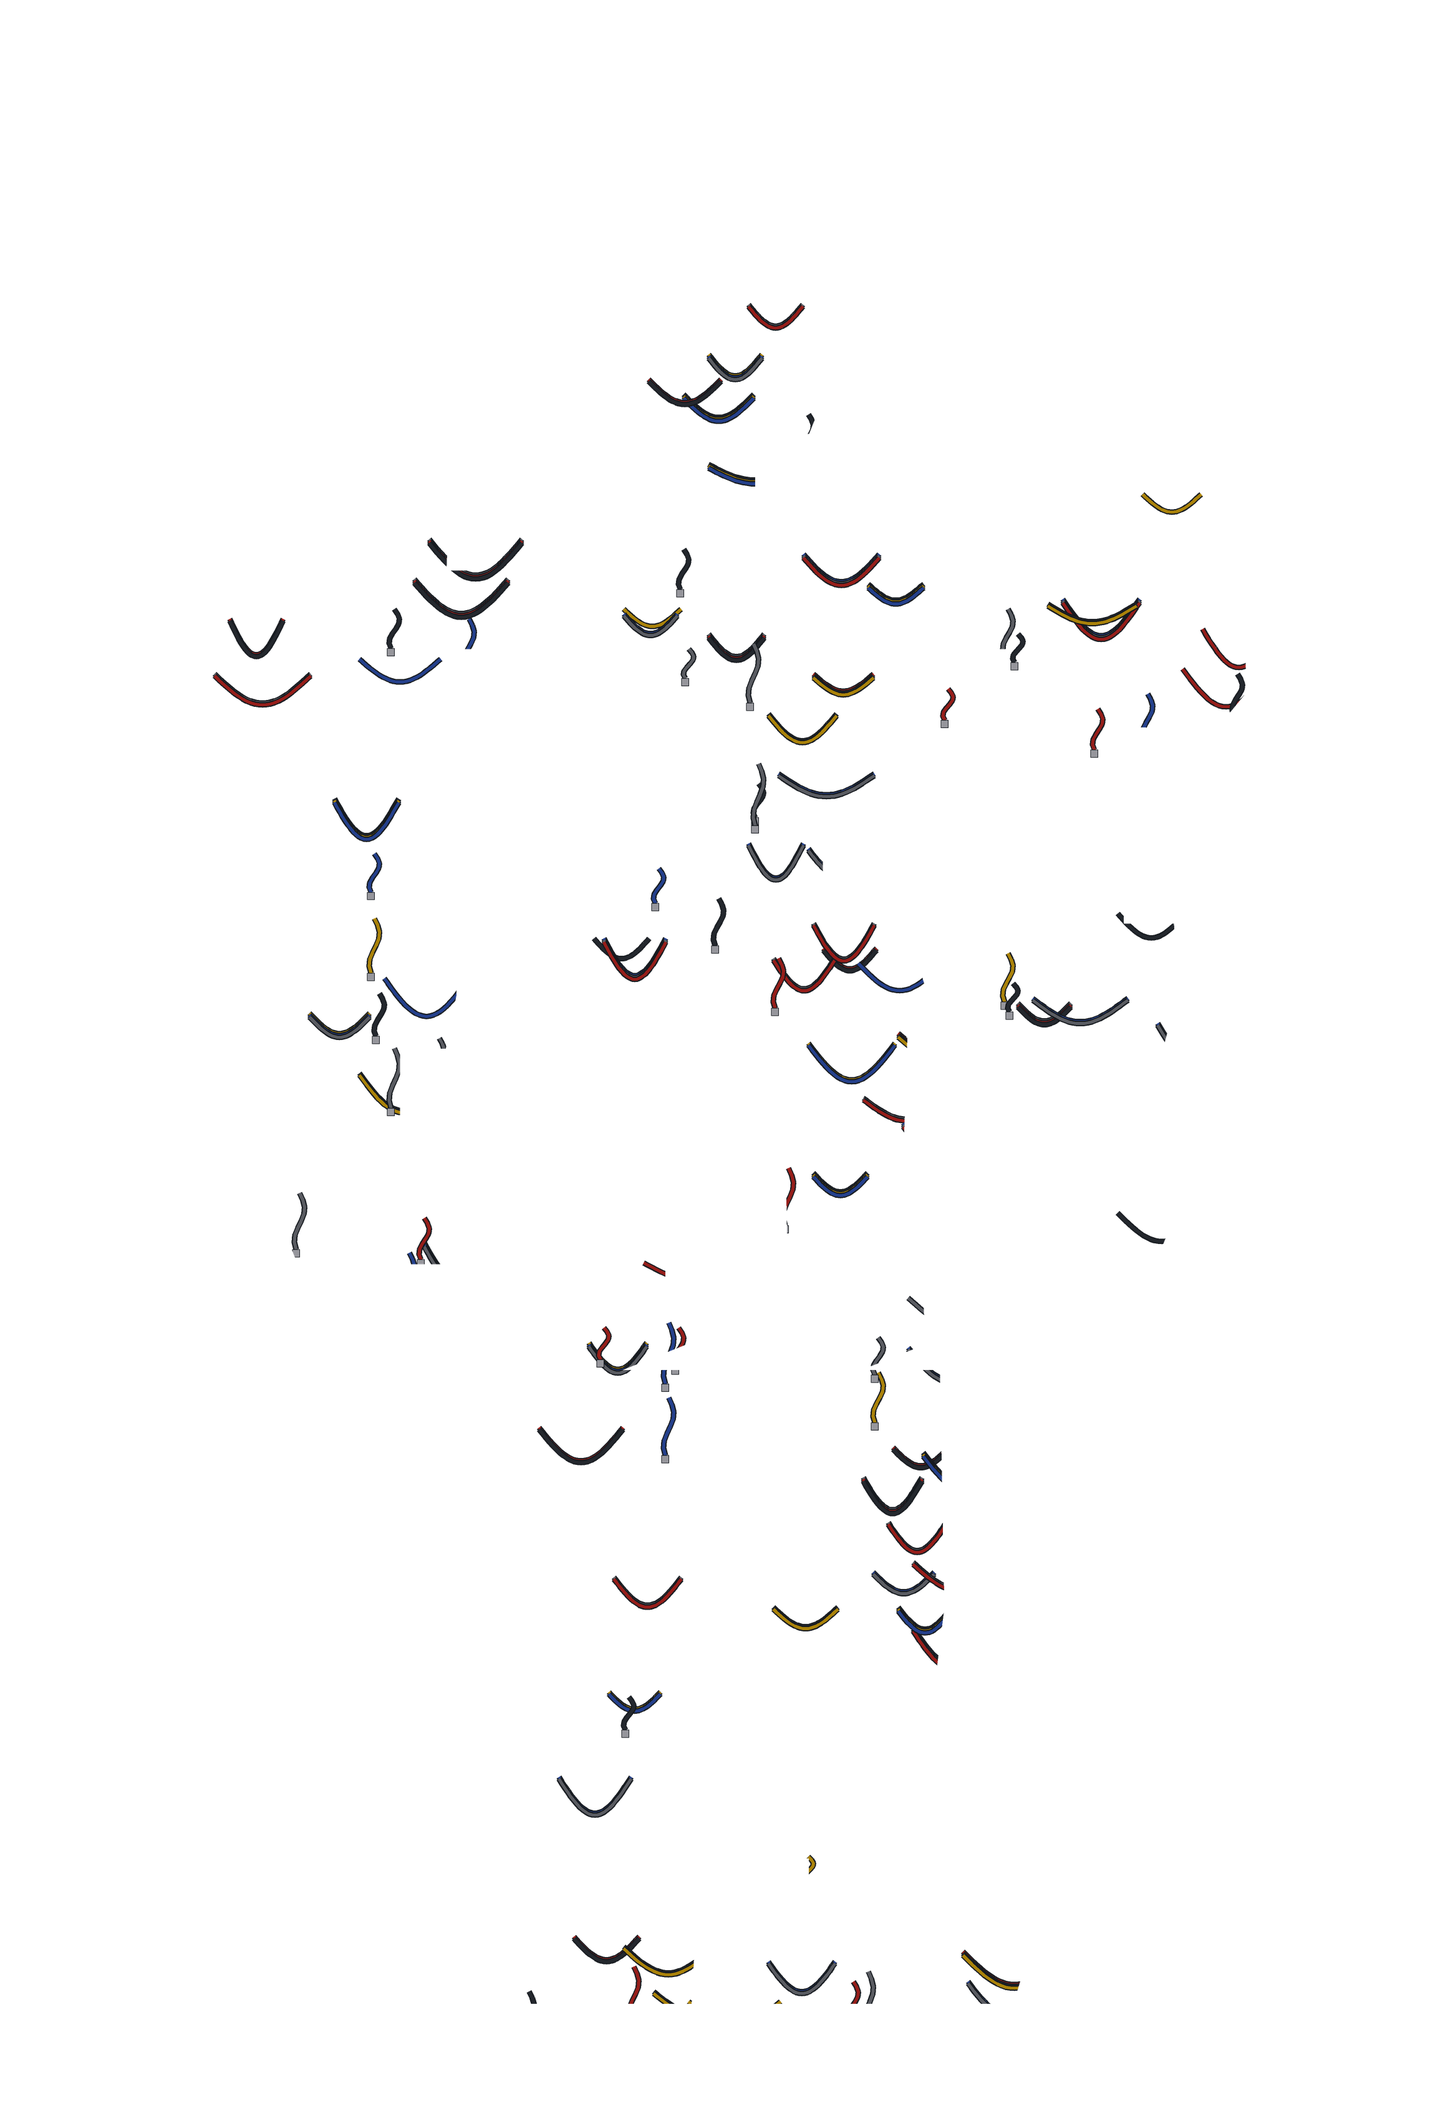
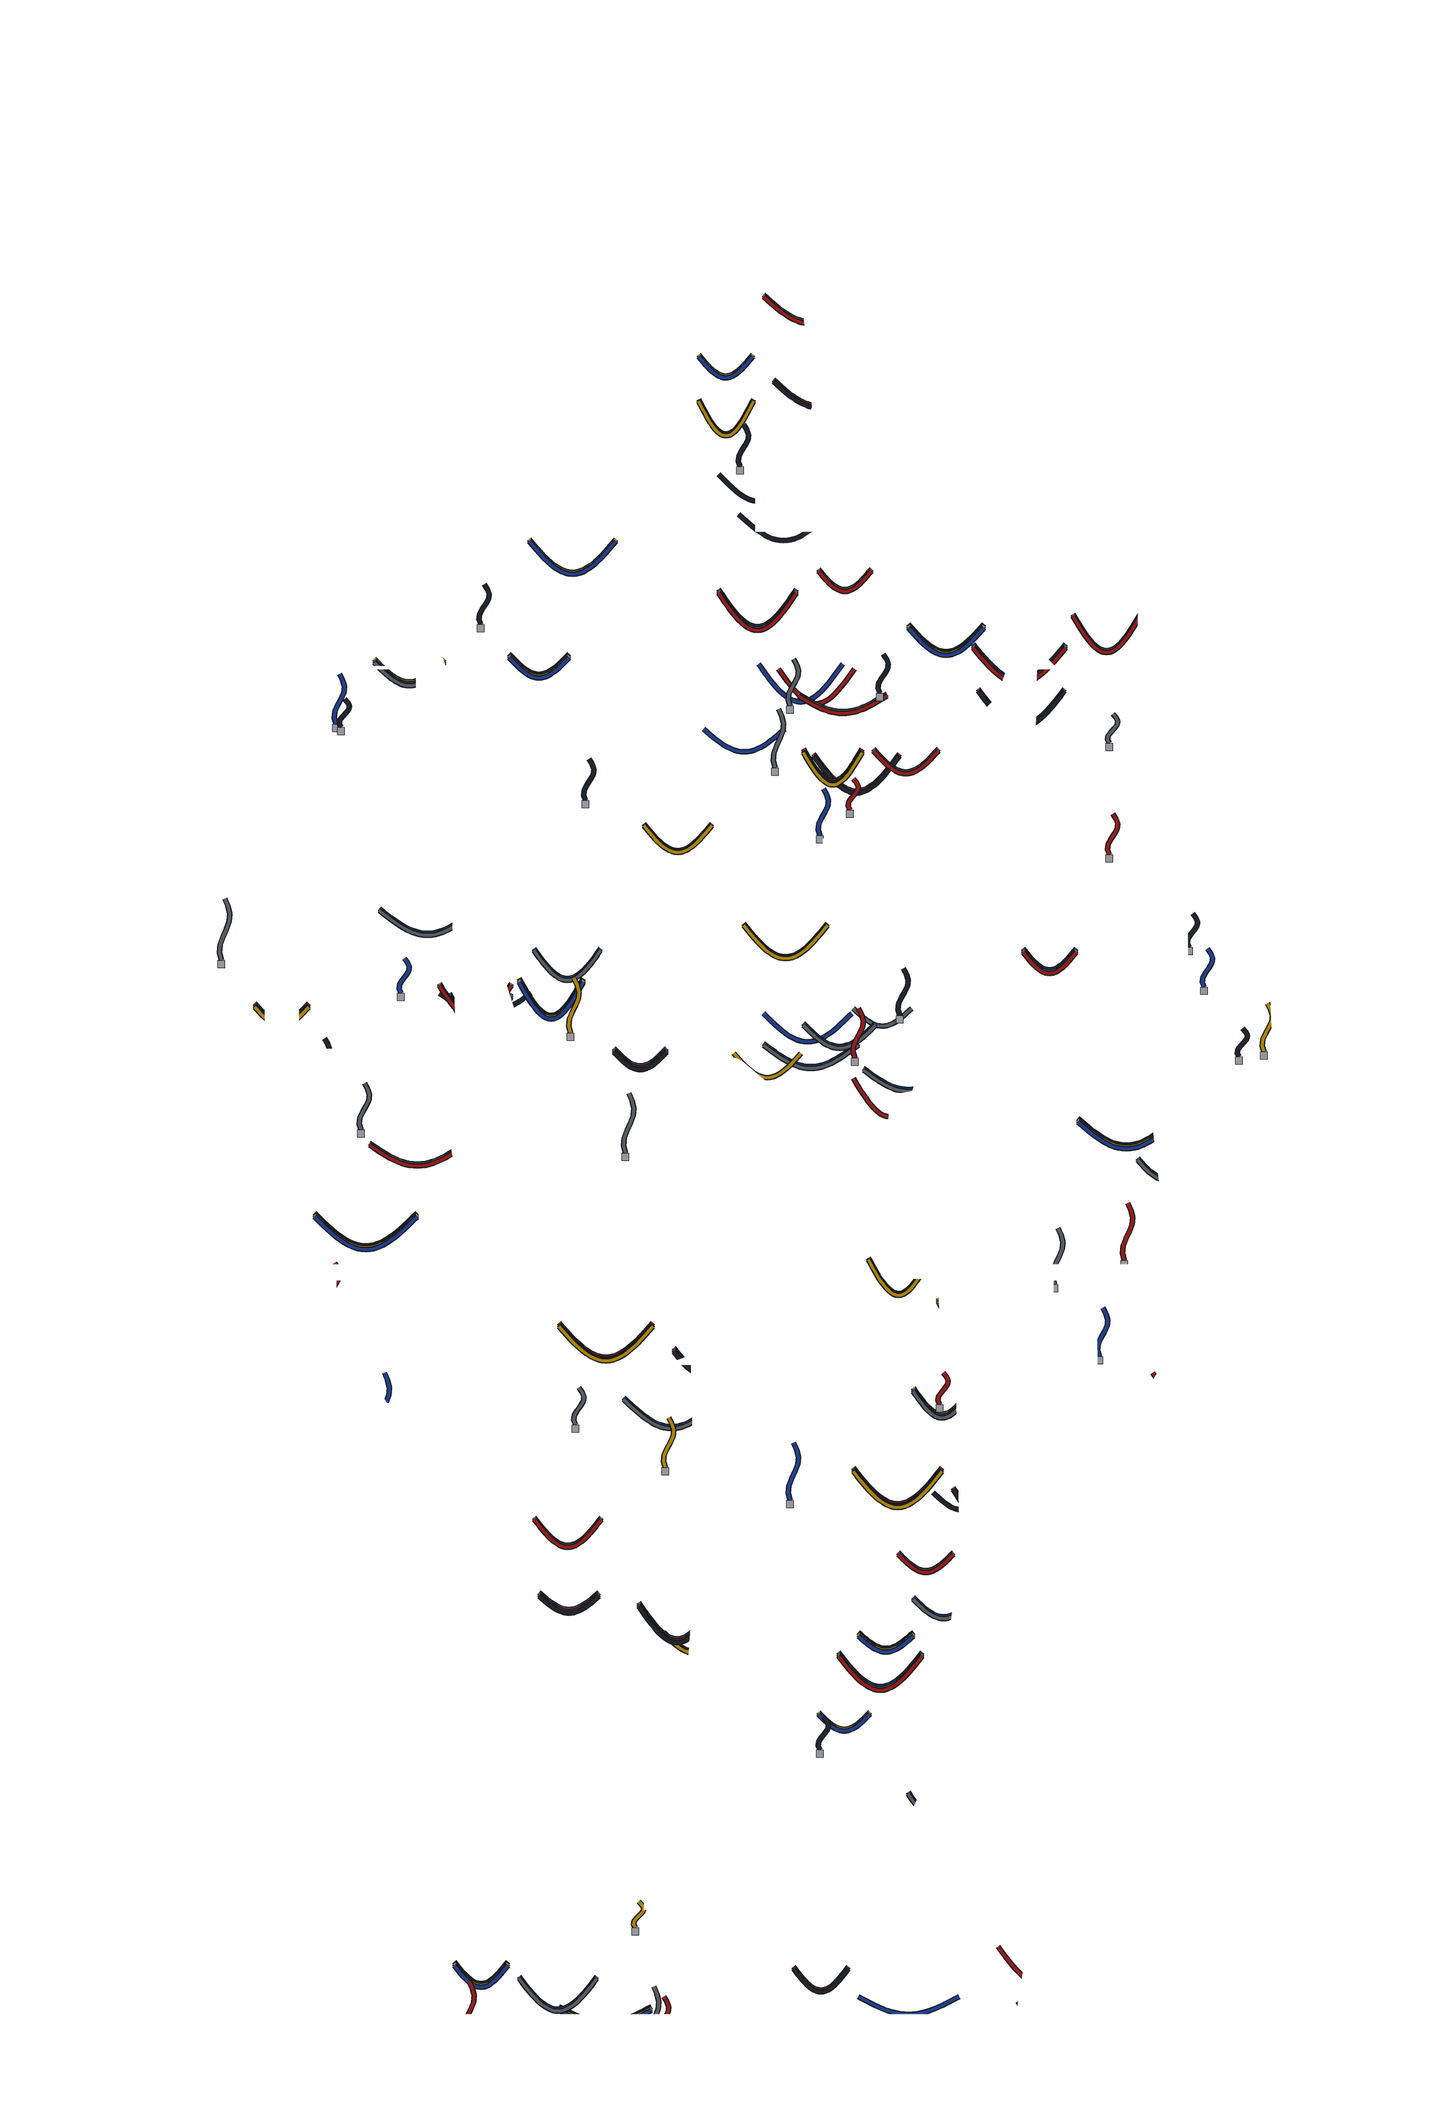
Bring the silhouette closer to the reference's proportions
Arms now hang from round shoulder joints on the sides of a wider, angular
chest; forearms are thick blocks with a flat outer armor plate; thighs
are slimmer and shins thicker, widest at the knee; feet are large
trapezoids like thruster nozzles; angled armor drops from the hips; the
head is narrower with two antennas. The upper deck, thigh platforms,
arm seats and nearby devices were adjusted to fit.

Claude-Session: https://claude.ai/code/session_014wgBvTxHemxFMo2E8WgQDa

diff --git a/tools/art/robot_layers.py b/tools/art/robot_layers.py
@@ -120,39 +120,40 @@ def limb(name, color, thick, pts, a, b, r):
 
 
 def build_parts():
-    """角ばったメカの体。脚が長く（全高の半分近く）、すねは太く長く、足は大きな箱型。
-    肩は縦長のブロック、上腕は細く前腕は太い。腰は細く、胸は広く平ら、頭は小さい。"""
+    """脚の長いメカの体。胸は広く角ばり、腕は胸の横の丸い関節から生える。
+    前腕は太い四角いブロックで、外側に平たい装甲板が付く。ももは細く、すねは太く長い（ひざが一番太い）。
+    足は大きな台形（スラスターのような形）。腰の左右に斜めの装甲。頭は小さめでアンテナが2本。"""
     L = []
-    L.append(Part("頭", "poly", WHITE, 0.9, pts=[(16.2, 48.4), (23.8, 48.4), (24.6, 50.4), (24.4, 54.2), (22.8, 55.8), (17.2, 55.8), (15.6, 54.2), (15.4, 50.4)]))
-    L.append(Part("首", "poly", DARK, 0.7, pts=[(18.2, 43.6), (21.8, 43.6), (21.8, 51.0), (18.2, 51.0)]))
-    L.append(Part("胸", "poly", RED, 1.1, pts=[(10.2, 46.4), (29.8, 46.4), (31.0, 42.0), (29.6, 37.4), (26.6, 34.4), (25.0, 32.6),
-                                                (15.0, 32.6), (13.4, 34.4), (10.4, 37.4), (9.0, 42.0)]))
+    L.append(Part("頭", "poly", WHITE, 0.9, pts=[(16.6, 48.0), (23.4, 48.0), (24.2, 50.2), (23.8, 54.6), (22.0, 56.4), (18.0, 56.4), (16.2, 54.6), (15.8, 50.2)]))
+    L.append(Part("首", "poly", DARK, 0.7, pts=[(18.2, 43.6), (21.8, 43.6), (21.8, 50.6), (18.2, 50.6)]))
+    L.append(Part("胸", "poly", RED, 1.1, pts=[(8.4, 46.6), (31.6, 46.6), (33.0, 43.4), (31.4, 38.6), (27.6, 34.6), (25.2, 32.6),
+                                                (14.8, 32.6), (12.4, 34.6), (8.6, 38.6), (7.0, 43.4)]))
     L.append(Part("腰", "poly", DARK, 0.9, pts=[(15.4, 35.0), (24.6, 35.0), (24.6, 29.2), (15.4, 29.2)]))
-    L.append(Part("骨盤", "poly", DARK, 1.1, pts=[(12.4, 32.0), (27.6, 32.0), (28.8, 28.0), (27.6, 24.6), (22.4, 23.4), (20, 25.0),
-                                                  (17.6, 23.4), (12.4, 24.6), (11.2, 28.0)]))
+    L.append(Part("骨盤", "poly", DARK, 1.1, pts=[(11.6, 32.0), (28.4, 32.0), (29.6, 28.0), (28.0, 23.0), (22.6, 22.0), (20, 24.2),
+                                                  (17.4, 22.0), (12.0, 23.0), (10.4, 28.0)]))
     left = [
-        Part("左肩", "poly", YELLOW, 1.1, pts=[(-0.6, 48.2), (9.0, 48.6), (10.4, 46.2), (10.0, 37.0), (0.6, 36.8), (-1.2, 39.0)]),
-        Part("左肩のつなぎ", "poly", DARK, 0.8, pts=[(6, 40.2), (12.6, 40.2), (12.6, 44.8), (6, 44.8)]),
-        limb("左上腕", WHITE, 0.8, [(3.6, 39.0), (8.6, 39.0), (8.8, 30.8), (3.8, 30.8)], (6.1, 38.6), (6.3, 31.4), 2.5),
-        Part("左ひじ", "poly", DARK, 0.8, pts=octagon(6.3, 31.0, 2.6), c=(6.3, 31.0)),
-        limb("左前腕", WHITE, 1.0, [(1.8, 31.4), (10.4, 31.4), (10.6, 27.6), (10.0, 24.6), (2.4, 24.6), (1.6, 27.6)], (6.2, 31.2), (6.2, 24.8), 3.8),
-        Part("左手首", "poly", DARK, 0.6, pts=[(4.4, 21.6), (8.0, 21.6), (8.0, 26.4), (4.4, 26.4)], c=(6.2, 24.0)),
-        Part("左手のひら", "poly", WHITE, 0.7, pts=[(2.8, 23.6), (9.6, 23.6), (10.4, 18.6), (9.4, 16.6), (3.0, 16.6), (2.2, 18.6)]),
-        limb("左親指", WHITE, 0.36, [(9.0, 21.6), (10.3, 22.0), (11.4, 19.0), (10.5, 17.8)], (9.7, 21.4), (11.0, 18.4), 0.7),
+        Part("左肩", "poly", YELLOW, 0.9, pts=octagon(6.4, 42.6, 3.4), c=(6.4, 42.6)),
+        limb("左上腕", WHITE, 0.8, [(3.8, 41.0), (8.8, 41.0), (9.0, 30.8), (4.0, 30.8)], (6.3, 40.6), (6.4, 31.4), 2.5),
+        Part("左ひじ", "poly", DARK, 0.8, pts=octagon(6.4, 31.0, 2.6), c=(6.4, 31.0)),
+        limb("左前腕", WHITE, 1.0, [(2.4, 31.6), (10.4, 31.6), (10.6, 24.6), (2.6, 24.6)], (6.4, 31.4), (6.4, 24.8), 3.8),
+        Part("左腕の装甲板", "poly", YELLOW, 0.7, pts=[(-1.4, 33.6), (2.9, 33.6), (2.9, 23.6), (-0.4, 22.2), (-1.8, 24.2)]),
+        Part("左手首", "poly", DARK, 0.6, pts=[(4.6, 21.6), (8.2, 21.6), (8.2, 26.4), (4.6, 26.4)], c=(6.4, 24.0)),
+        Part("左手のひら", "poly", WHITE, 0.7, pts=[(3.0, 23.6), (9.8, 23.6), (10.6, 18.6), (9.6, 16.6), (3.2, 16.6), (2.4, 18.6)]),
+        limb("左親指", WHITE, 0.36, [(9.2, 21.6), (10.5, 22.0), (11.4, 19.0), (10.6, 17.8)], (9.9, 21.4), (11.0, 18.4), 0.7),
     ]
     for i in range(4):  # 指（関節ごとに角ばった形。真ん中の2本は長い）
-        x = 3.5 + i * 1.65
+        x = 3.7 + i * 1.65
         tip = 11.6 if i in (1, 2) else 12.4
         left.append(limb(f"左指{i + 1}", WHITE, 0.36, [(x - 0.74, 17.0), (x + 0.74, 17.0), (x + 0.66, tip + 0.6), (x + 0.28, tip), (x - 0.28, tip), (x - 0.66, tip + 0.6)],
                          (x, 17.0), (x, tip), 0.7))
     left += [
-        Part("左股関節", "poly", DARK, 1.0, pts=octagon(15.4, 25.4, 3.0), c=(15.4, 25.4)),
-        limb("左もも", BLUE, 1.0, [(12.0, 27.0), (18.8, 27.0), (18.6, 14.8), (12.4, 14.8)], (15.4, 26.6), (15.5, 15.2), 3.2),
-        Part("左ひざ", "poly", DARK, 0.9, pts=[(11.6, 17.4), (19.2, 17.4), (19.4, 13.6), (15.4, 12.0), (11.4, 13.6)], c=(15.4, 15.0)),
-        limb("左すね", BLUE, 1.0, [(10.8, 14.2), (19.4, 14.2), (19.6, 4.0), (18.8, -4.0), (17.6, -6.6), (13.2, -6.6), (11.6, -4.0), (10.6, 4.0)],
-             (15.3, 14.0), (15.5, -6.2), 4.2),
+        Part("左股関節", "poly", DARK, 1.0, pts=octagon(15.6, 25.4, 2.8), c=(15.6, 25.4)),
+        limb("左もも", BLUE, 0.9, [(12.8, 26.6), (18.4, 26.6), (18.2, 15.6), (13.0, 15.6)], (15.6, 26.2), (15.6, 16.0), 2.8),
+        Part("左ひざ", "poly", DARK, 0.9, pts=[(11.0, 17.6), (19.4, 17.6), (19.6, 13.2), (15.4, 11.6), (10.8, 13.2)], c=(15.4, 15.0)),
+        limb("左すね", BLUE, 1.0, [(10.2, 14.4), (19.6, 14.4), (19.8, 6.0), (19.2, -2.6), (17.8, -6.4), (13.0, -6.4), (11.2, -2.6), (10.0, 6.0)],
+             (15.2, 14.2), (15.4, -6.0), 4.6),
         Part("左足首", "poly", DARK, 0.6, pts=[(13.6, -9.4), (17.4, -9.4), (17.4, -4.4), (13.6, -4.4)], c=(15.5, -6.6)),
-        Part("左足", "poly", RED, 1.0, pts=[(9.4, -6.8), (19.4, -6.8), (19.8, -8.6), (19.6, -12.2), (8.2, -12.2), (7.4, -9.6)]),
+        Part("左足", "poly", RED, 1.0, pts=[(11.2, -6.6), (19.0, -6.6), (19.6, -9.0), (19.4, -12.6), (8.0, -12.6), (7.4, -9.0)]),
     ]
     L += left + [p.mirrored() for p in left]
     return L
@@ -161,9 +162,10 @@ def build_parts():
 # 空洞には入れない飾り（角・胸のエンブレムなど）
 def draw_decor(d):
     w = int(0.12 * PX)
-    # 1本のアンテナ（左寄り）と、頭の上の小さな突起
-    d.polygon([P(*p) for p in [(17.6, 55.4), (18.6, 55.4), (18.3, 62.0), (17.9, 62.0)]], fill=(200, 205, 210, 255), outline=INK, width=w)
-    d.polygon([P(*p) for p in [(21.0, 55.4), (23.0, 55.4), (22.6, 57.2), (21.4, 57.2)]], fill=hexc(YELLOW), outline=INK, width=w)
+    # アンテナ2本（頭の左右から少し外へ）と、頭の上のとさか
+    for x0, lean in ((18.0, -1.0), (22.0, 1.0)):
+        d.polygon([P(*p) for p in [(x0 - 0.35, 55.8), (x0 + 0.35, 55.8), (x0 + lean + 0.15, 61.4), (x0 + lean - 0.15, 61.4)]], fill=(200, 205, 210, 255), outline=INK, width=w)
+    d.polygon([P(*p) for p in [(19.2, 56.0), (20.8, 56.0), (20.5, 58.2), (19.5, 58.2)]], fill=hexc(RED), outline=INK, width=w)
 
 
 def mask_of(parts, shrink=False):
@@ -357,7 +359,7 @@ def build_back(parts, cavity):
             a = P(x + nx * (o - 0.55), z + nz * (o - 0.55)); b = P(x + nx * (o + 0.55), z + nz * (o + 0.55))
             d.line([a, b], fill=INK, width=int(0.3 * PX)); d.line([a, b], fill=(160, 168, 176, 255), width=int(0.18 * PX))
     # 胴の中を横切るケーブルの束
-    for z, x0, x1, sag in ((45.0, 11, 29, 2.0), (33.4, 16.5, 23.5, 1.0), (30.6, 13, 27, 1.4), (54.6, 17, 23, 1.0), (46.4, 1.0, 9.5, 1.2), (46.4, 30.5, 39, 1.2)):
+    for z, x0, x1, sag in ((45.0, 11, 29, 2.0), (33.4, 16.5, 23.5, 1.0), (30.6, 13, 27, 1.4), (54.6, 17, 23, 1.0), (43.6, 3.6, 9.4, 0.8), (43.6, 30.6, 36.4, 0.8)):
         for k in range(4):
             pts = [P(x0 + (x1 - x0) * t, z - k * 0.16 - sag * math.sin(math.pi * t)) for t in [i / 30 for i in range(31)]]
             cable_line(d, pts, BACK_CABLES[(k * 2) % len(BACK_CABLES)], int(0.1 * PX), int(0.17 * PX))

diff --git a/robot/Assets/Scripts/Core/Tasks.cs b/robot/Assets/Scripts/Core/Tasks.cs
@@ -31,11 +31,11 @@ public static class Tasks
 
     public static readonly TaskDef[] All =
     {
-        new TaskDef { Name = "冷却バルブ",     Room = "胸",     Kind = TaskKind.Valve, Pos = P(11.8f, 41.5f),   PanelOffset = new Vector2(0f, 1.05f),  Effect = "動力が早く減る" },
-        new TaskDef { Name = "左腕の配線",     Room = "左肩",   Kind = TaskKind.Wires, Pos = P(2.2f, 41.5f),    PanelOffset = new Vector2(0f, 1.05f),   Effect = "左腕のパンチが遅い" },
-        new TaskDef { Name = "右腕の配線",     Room = "右肩",   Kind = TaskKind.Wires, Pos = P(37.8f, 41.5f),   PanelOffset = new Vector2(0f, 1.05f),   Effect = "右腕のパンチが遅い" },
-        new TaskDef { Name = "左脚の油圧",     Room = "左もも", Kind = TaskKind.Gauge, Pos = P(16.8f, 20.6f),   PanelOffset = new Vector2(0f, 1.05f),  Effect = "左脚が全力で動かない" },
-        new TaskDef { Name = "右脚の油圧",     Room = "右もも", Kind = TaskKind.Gauge, Pos = P(23.2f, 20.6f),   PanelOffset = new Vector2(0f, 1.05f),   Effect = "右脚が全力で動かない" },
+        new TaskDef { Name = "冷却バルブ",     Room = "胸",     Kind = TaskKind.Valve, Pos = P(11.4f, 41.5f),   PanelOffset = new Vector2(0f, 1.05f),  Effect = "動力が早く減る" },
+        new TaskDef { Name = "左腕の配線",     Room = "左肩",   Kind = TaskKind.Wires, Pos = P(4.9f, 41.5f),    PanelOffset = new Vector2(0f, 1.05f),   Effect = "左腕のパンチが遅い" },
+        new TaskDef { Name = "右腕の配線",     Room = "右肩",   Kind = TaskKind.Wires, Pos = P(35.1f, 41.5f),   PanelOffset = new Vector2(0f, 1.05f),   Effect = "右腕のパンチが遅い" },
+        new TaskDef { Name = "左脚の油圧",     Room = "左もも", Kind = TaskKind.Gauge, Pos = P(16.7f, 20.6f),   PanelOffset = new Vector2(0f, 1.05f),  Effect = "左脚が全力で動かない" },
+        new TaskDef { Name = "右脚の油圧",     Room = "右もも", Kind = TaskKind.Gauge, Pos = P(23.3f, 20.6f),   PanelOffset = new Vector2(0f, 1.05f),   Effect = "右脚が全力で動かない" },
         new TaskDef { Name = "ヒューズ",       Room = "腰",     Kind = TaskKind.Fuse,  Pos = P(26f, 27.4f),   PanelOffset = new Vector2(0f, 1.05f),   Effect = "頭部砲が撃てない" },
         new TaskDef { Name = "照準の調整",     Room = "頭",     Kind = TaskKind.Scope, Pos = P(17.6f, 49.5f),   PanelOffset = new Vector2(0f, 1.05f),  Effect = "砲撃が狙いからずれる" },
         new TaskDef { Name = "排熱ダクト",     Room = "腰",     Kind = TaskKind.Vent,  Pos = P(14f, 27.4f),     PanelOffset = new Vector2(0f, 1.05f),  Effect = "装甲がじわじわ減る" },

diff --git a/robot/Assets/Scripts/Map/InteriorMap.cs b/robot/Assets/Scripts/Map/InteriorMap.cs
@@ -37,13 +37,13 @@ public static class InteriorMap
     public static readonly Catwalk[] Catwalks =
     {
         C(16.8f, 23.2f, 49.5f),   // 頭
-        C(0.8f, 39.2f, 41.5f),    // 肩から胸の上の段
+        C(4.6f, 35.4f, 41.5f),    // 肩の関節から胸の上の段
         C(13.6f, 26.4f, 35.6f),   // 胸の下の段（動力炉）
         C(12.8f, 27.2f, 27.4f),   // 腰
-        C(13.2f, 17.4f, 20.6f),   // 左もも（途中の足場）
-        C(22.6f, 26.8f, 20.6f),   // 右もも
-        C(3.4f, 8.8f, 17.6f),     // 左の手のひら
-        C(31.2f, 36.6f, 17.6f),   // 右の手のひら
+        C(14.0f, 17.2f, 20.6f),   // 左もも（途中の足場）
+        C(22.8f, 26.0f, 20.6f),   // 右もも
+        C(3.6f, 9.0f, 17.6f),     // 左の手のひら
+        C(31.0f, 36.4f, 17.6f),   // 右の手のひら
         C(12.2f, 18.6f, 4.6f),    // 左すね
         C(21.4f, 27.8f, 4.6f),    // 右すね
         C(9.0f, 18.6f, -10.8f),   // 左足
@@ -53,8 +53,8 @@ public static class InteriorMap
     public static readonly Ladder[] Ladders =
     {
         L(20f, 27.4f, 49.5f),     // 腰 → 腹 → 胸 → 首 → 頭（体の真ん中を通る）
-        L(6.2f, 17.6f, 41.5f),    // 左肩 → 上腕 → ひじ → 前腕 → 手首 → 手のひら
-        L(33.8f, 17.6f, 41.5f),   // 右肩 → 右手のひら
+        L(6.4f, 17.6f, 41.5f),    // 左肩 → 上腕 → ひじ → 前腕 → 手首 → 手のひら
+        L(33.6f, 17.6f, 41.5f),   // 右肩 → 右手のひら
         L(15.5f, -10.8f, 27.4f),  // 腰 → 左もも → ひざ → 左すね → 足首 → 左足
         L(24.5f, -10.8f, 27.4f),  // 腰 → 右足
     };
@@ -230,7 +230,7 @@ public static class InteriorMap
         (string sprite, float x, float y, float scale)[] props =
         {
             ("crate", 26.2f, 35.6f, 0.8f),
-            ("machine", 30f, 41.5f, 0.6f), ("tanks", 15.2f, 41.5f, 0.6f),
+            ("machine", 28.6f, 41.5f, 0.6f), ("tanks", 15.2f, 41.5f, 0.6f),
             ("machine", 21.6f, 27.4f, 0.55f),
             ("crate", 12.6f, -10.8f, 0.8f), ("crate", 13.6f, -10.8f, 0.8f), ("crate", 28.4f, -10.8f, 0.8f), ("tanks", 26.6f, -10.8f, 0.7f),
         };

diff --git a/robot/Assets/Scripts/Core/Stations.cs b/robot/Assets/Scripts/Core/Stations.cs
@@ -25,8 +25,8 @@ public static class Stations
     {
         new StationDef { Name = "左脚", Type = StationType.Leg,  Side = -1, Pos = new Vector2(13f, 4.6f) * InteriorMap.Scale, ConsoleOffset = new Vector2(-1.5f, 0.95f), Color = Prims.Hex("#4fd2ff") },
         new StationDef { Name = "右脚", Type = StationType.Leg,  Side =  1, Pos = new Vector2(27f, 4.6f) * InteriorMap.Scale, ConsoleOffset = new Vector2(1.5f, 0.95f), Color = Prims.Hex("#4fd2ff") },
-        new StationDef { Name = "左腕", Type = StationType.Arm,  Side = -1, Pos = new Vector2(3.9f, 17.6f) * InteriorMap.Scale,      ConsoleOffset = new Vector2(-1.4f, 0.95f), Color = Prims.Hex("#ff9a3c") },
-        new StationDef { Name = "右腕", Type = StationType.Arm,  Side =  1, Pos = new Vector2(36.1f, 17.6f) * InteriorMap.Scale,     ConsoleOffset = new Vector2(1.4f, 0.95f),  Color = Prims.Hex("#ff9a3c") },
+        new StationDef { Name = "左腕", Type = StationType.Arm,  Side = -1, Pos = new Vector2(4.1f, 17.6f) * InteriorMap.Scale,      ConsoleOffset = new Vector2(-1.4f, 0.95f), Color = Prims.Hex("#ff9a3c") },
+        new StationDef { Name = "右腕", Type = StationType.Arm,  Side =  1, Pos = new Vector2(35.9f, 17.6f) * InteriorMap.Scale,     ConsoleOffset = new Vector2(1.4f, 0.95f),  Color = Prims.Hex("#ff9a3c") },
         new StationDef { Name = "頭部砲", Type = StationType.Head, Side = 0, Pos = new Vector2(21.8f, 49.5f) * InteriorMap.Scale,     ConsoleOffset = new Vector2(1.5f, 0.95f),  Color = Prims.Hex("#b8ff5a") },
         new StationDef { Name = "動力炉", Type = StationType.Core, Side = 0, Pos = new Vector2(14.2f, 35.6f) * InteriorMap.Scale,    ConsoleOffset = new Vector2(1.2f, 0.95f), Color = Prims.Hex("#ffd23f") },
     };
